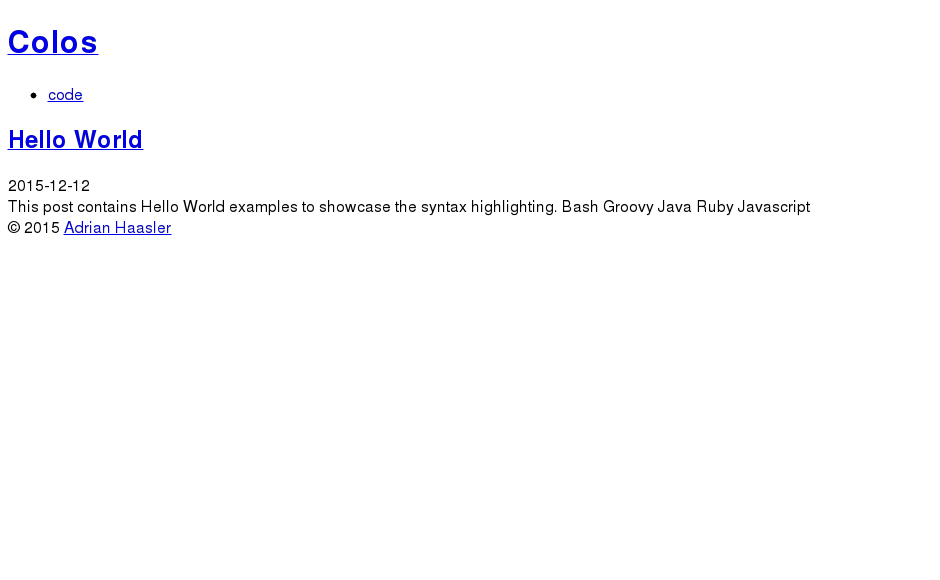
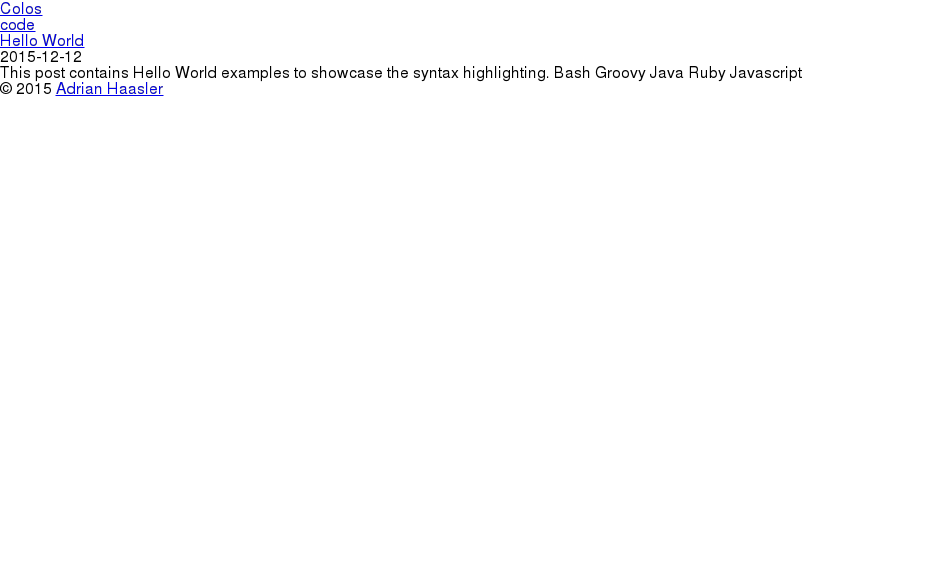
Reset CSS style
Built from 08cd3f3950678a581c8294c80d93a66f8e21550e.

Changed region(s): [[0.0, 0.0, 0.8638, 0.1862], [0.0, 0.3103, 0.8638, 0.4034], [0.0, 0.2172, 0.1543, 0.2793]]

diff --git a/source/css/main.css b/source/css/main.css
@@ -1,1 +1,6 @@
-h1,h2,h3,h4,h5,h6{color:#000;color:rgba(0,0,0,.9)}.highlight,pre{background:#212121;color:#f5f5f5}.highlight .string,pre .string{color:#ffeb3b}.highlight .comment,pre .comment{color:#727272}.highlight .keyword,pre .keyword{color:#ff4081}.highlight .built_in,pre .built_in{color:#00bcd4}.highlight .number,.literal,pre .number{color:#7c4dff}.highlight.bash .shebang,pre.bash .shebang{color:#727272}.highlight.bash .variable,pre.bash .variable{color:#b6b6b6}.highlight.bash .title,pre.bash .title{color:#8bc34a}
+/*
+http://meyerweb.com/eric/tools/css/reset/
+v2.0 | 20110126
+License: none (public domain)
+*/a,abbr,acronym,address,applet,article,aside,audio,b,big,blockquote,body,canvas,caption,center,cite,code,dd,del,details,dfn,div,dl,dt,em,embed,fieldset,figcaption,figure,footer,form,h1,h2,h3,h4,h5,h6,header,hgroup,html,i,iframe,img,ins,kbd,label,legend,li,mark,menu,nav,object,ol,output,p,pre,q,ruby,s,samp,section,small,span,strike,strong,sub,summary,sup,table,tbody,td,tfoot,th,thead,time,tr,tt,u,ul,var,video{margin:0;padding:0;border:0;font-size:100%;font:inherit;vertical-align:baseline}
+/* HTML5 display-role reset for older browsers */article,aside,details,figcaption,figure,footer,header,hgroup,menu,nav,section{display:block}body{line-height:1}ol,ul{list-style:none}blockquote,q{quotes:none}blockquote:after,blockquote:before,q:after,q:before{content:'';content:none}table{border-collapse:collapse;border-spacing:0}h1,h2,h3,h4,h5,h6{color:#000;color:rgba(0,0,0,.9)}.highlight,pre{background:#212121;color:#f5f5f5}.highlight .string,pre .string{color:#ffeb3b}.highlight .comment,pre .comment{color:#727272}.highlight .keyword,pre .keyword{color:#ff4081}.highlight .built_in,pre .built_in{color:#00bcd4}.highlight .number,.literal,pre .number{color:#7c4dff}.highlight.bash .shebang,pre.bash .shebang{color:#727272}.highlight.bash .variable,pre.bash .variable{color:#b6b6b6}.highlight.bash .title,pre.bash .title{color:#8bc34a}
